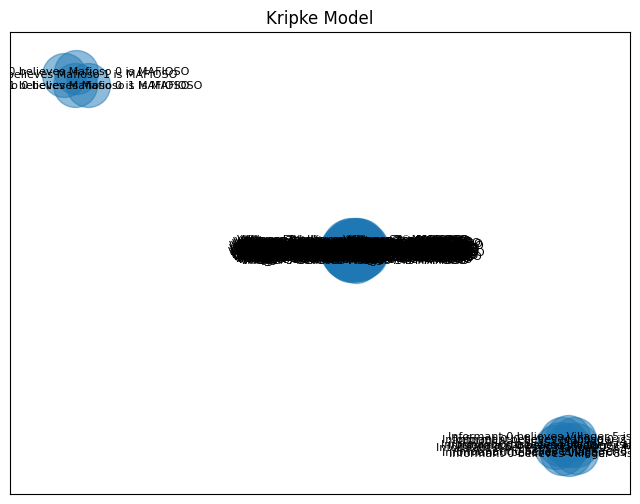
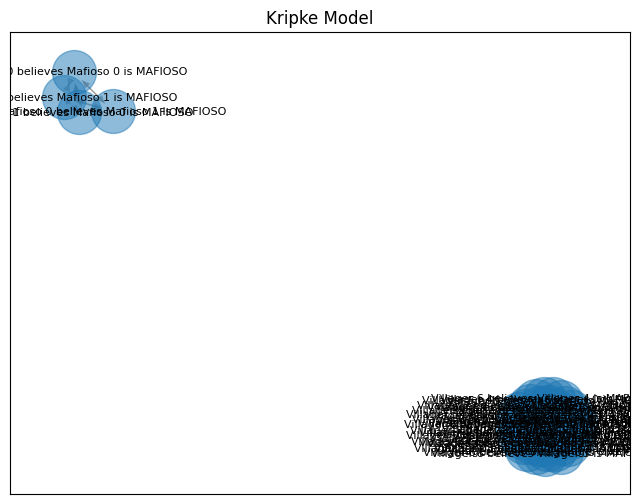
Added section to the website explaining our current progress

Changed region(s): [[0.625, 0.744, 1.0, 0.9524], [0.0, 0.0893, 0.3438, 0.2679], [0.3438, 0.4167, 0.7812, 0.5655]]

diff --git a/index.html b/index.html
@@ -257,6 +257,13 @@
       </li>
     </ul>
 
+  <a id="project_state"></a>
+  <h2>Current state of the project</h2>
+  <p>We currently have a model that contains the doctor, informant, villager and mafia roles. Both the day and night phase are modeled, allowing the game to be played. </p>
+  <p>A Kripke model can be generated from the agent's knowledge (or beliefs, as they are mostly called in the code). Each agent has a list of possible roles for each other agent.</p>
+  <p>Additionally, agents can remember the voting history of other agents. This allows us to formulate strategies such as: when a mafia member is eliminated, all players know that people who voted against that mafioso are not in the mafia.
+  <p>This requires the simplification that mafia members never vote against their own. We simplified the model further, with the goal of making the agents' decisions based on knowledge as much as possible. Where needed, we use randomness to break ties.<\p>
+  <p>Eventually we want to show the strategies that agents use, as well as our simplifications, in formal logical notation, as well as the Kripke model. While these are already generated, for now we only use a graphical approach, which still needs work as well. </p>
   <a id="kripke_model"></a>
   <h2>Preliminaries</h2>
 

diff --git a/src/mafia_players.py b/src/mafia_players.py
@@ -64,6 +64,7 @@ class Player:
                 if 'MAFIOSO' in belief[1]:
                     belief[1].remove('MAFIOSO')
 
+
 class Villager(Player):
     def __init__(self):
         super().__init__()
@@ -71,6 +72,7 @@ class Villager(Player):
 
     def suspectMafioso(self, player, candidate):
         player.accusations[candidate.name] += 1
+
 
 class Informant(Villager):
     def __init__(self):
@@ -89,6 +91,7 @@ class Informant(Villager):
         targetBelief = [belief for belief in self.playerBeliefs if belief[0] == target][0]
         targetBelief[1].clear()
         targetBelief[1].append(Roles.MAFIOSO.name)
+
 
 class Mafioso(Player):
     def __init__(self):
@@ -118,6 +121,7 @@ class Mafioso(Player):
             return
 
         super().updateBeliefs(deceased)
+
 
 class Doctor(Player):
     def __init__(self):

diff --git a/src/main.py b/src/main.py
@@ -9,6 +9,7 @@ from matplotlib.figure import Figure
 from kripke_model import KripkeModel
 from mafia_model import MafiaGame
 
+
 class MainWindow(tk.Tk):
     def __init__(self, villagers=10, mafiosi=2, doctors=1, informants=1, mafia_strategy='enemy'):
         super().__init__()
@@ -140,5 +141,5 @@ class MainWindow(tk.Tk):
 
 
 if __name__ == '__main__':
-    app = MainWindow(villagers=10, mafiosi=2, doctors=0, informants=1, mafia_strategy='enemy')
+    app = MainWindow(villagers=7 , mafiosi=2, doctors=0, informants=1, mafia_strategy='enemy')
     app.mainloop()
